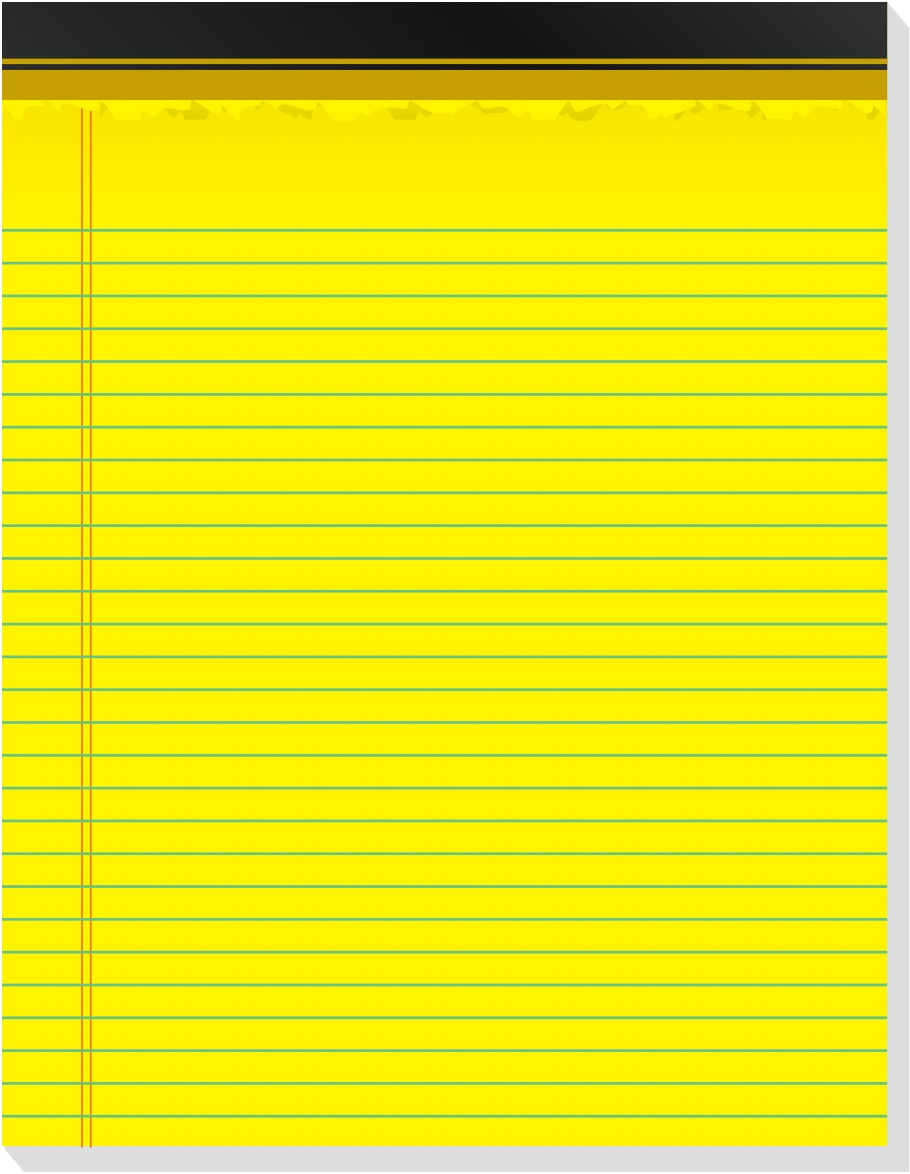
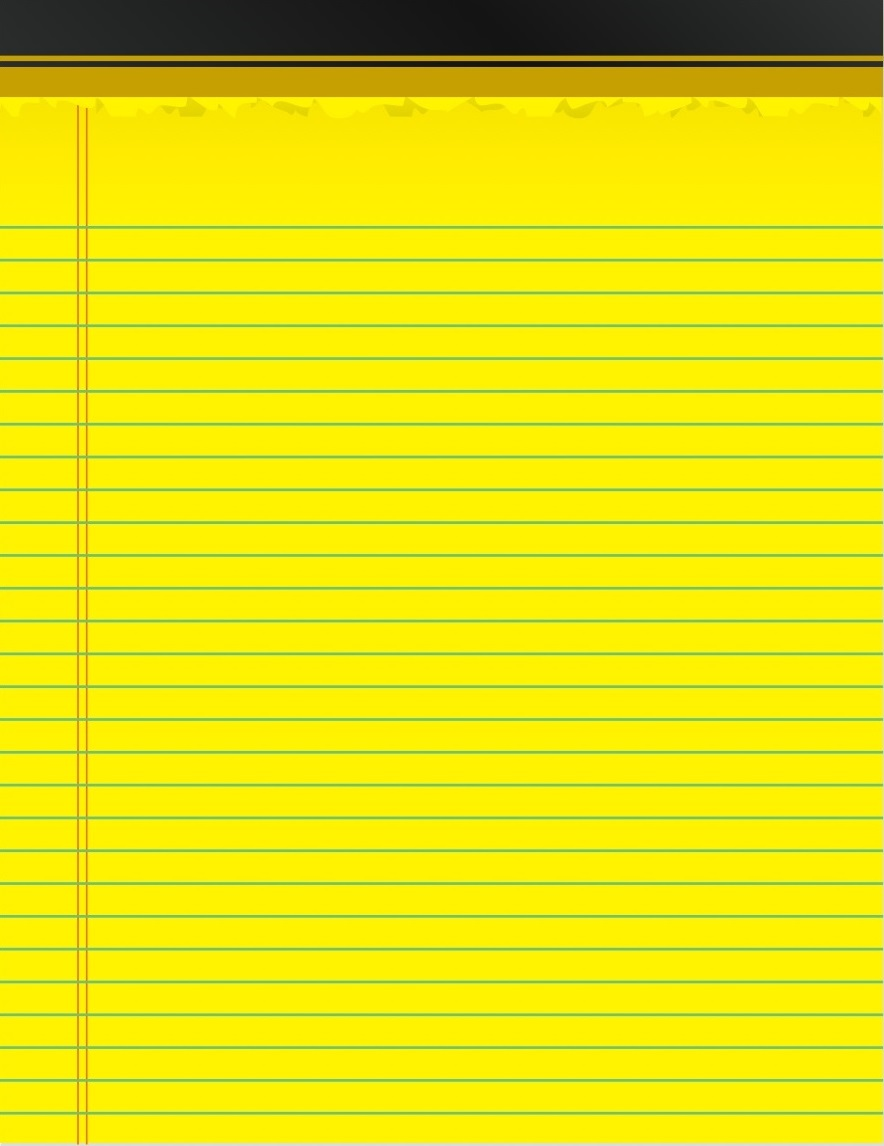
Change background, styles, completed tasks color.

diff --git a/css/styles.css b/css/styles.css
@@ -1,15 +1,29 @@
+body {
+  background-color: black;
+}
+
+.appBody {
+  background-image: url(../images/notepad.jpg);
+  background-size: cover;
+  background-repeat: no-repeat;
+  -moz-border-radius: 50px;
+  -webkit-border-radius: 50px;
+  border-radius: 50px;
+  border: 1px solid #000000;
+  font-weight: bold;
+}
+
 .header {
   width: 100%;
   display: block;
-}
-
-.notepad {
-  position: absolute;
-  width: 100%;
+  -moz-border-radius: 50px;
+  -webkit-border-radius: 50px;
+  border-radius: 50px;
+  border: 1px solid #000000;
 }
 
 .main-body {
-  position: relative;
+  padding: 0 25px 0px 80px;
 }
 
 h1 {
@@ -17,11 +31,27 @@ h1 {
 }
 
 h1.top {
-  padding: 100px 0px 0px 0px;
+  padding: 100px 0 0 0;
+}
+
+input {
+  -moz-border-radius: 5px;
+  -webkit-border-radius: 5px;
+  border-radius: 5px;
+  border: 1px solid #000000;
+}
+
+button {
+  -moz-border-radius: 5px;
+  -webkit-border-radius: 5px;
+  border-radius: 5px;
+  border: 1px solid #000000;
 }
 
 li {
   list-style: none;
+  padding: 0 25px 0px 0px;
+  margin-left: -35px;
 }
 
 .stillToDo{
@@ -30,6 +60,6 @@ li {
 
 .completed {
   text-decoration: line-through;
-  color: #00D200;
+  color: #026B02;
   font-weight: bold;
 }

diff --git a/index.html b/index.html
@@ -5,19 +5,19 @@
   <meta name="viewport" content="width=device-width, initial-scale=1.0">
   <meta http-equiv="X-UA-Compatible" content="ie=edge">
   <link rel="stylesheet" href="css/styles.css">
-  <title>Angular To-Do App</title>
+  <title>To-Do List</title>
 </head>
 <body ng-app="toDo">
   <header>
     <img class="header" src="images/discipline.jpg" alt="Discipline = Freedom" />
   </header>
-  <div>
-    <img class="notepad" src="images/notepad.jpg" alt="notepad and pen background" />
+  <div class="appBody">
+    <!-- <img class="notepad" src="images/notepad.jpg" alt="notepad and pen background" /> -->
     <div class="main-body">
       <h1 class="top">The To-Do List!</h1>
       <p>Stay accountable by keeping track of the tasks you need to complete. Enter your tasks in the input below and add it to your to-do list.</p>
       <div ng-controller="toDoController">
-        <form name="toDoForm" ng-submit="addToDo()">
+        <form class="form" name="toDoForm" ng-submit="addToDo()">
           <input type="text" name="newToDo" ng-model="newToDo" placeholder="New To-Do Item" required>
           <button ng-disabled="toDoForm.$invalid">Add Task</button>
         </form>

diff --git a/js/script.js b/js/script.js
@@ -15,7 +15,7 @@ toDo.controller("toDoController",["$scope", function($scope){
     },
     {
       "toDoName":"Update colors of the completed tasks",
-      "completed":false
+      "completed":true
     },
     {
       "toDoName":"Include a search functionallity to filter through current tasks",
